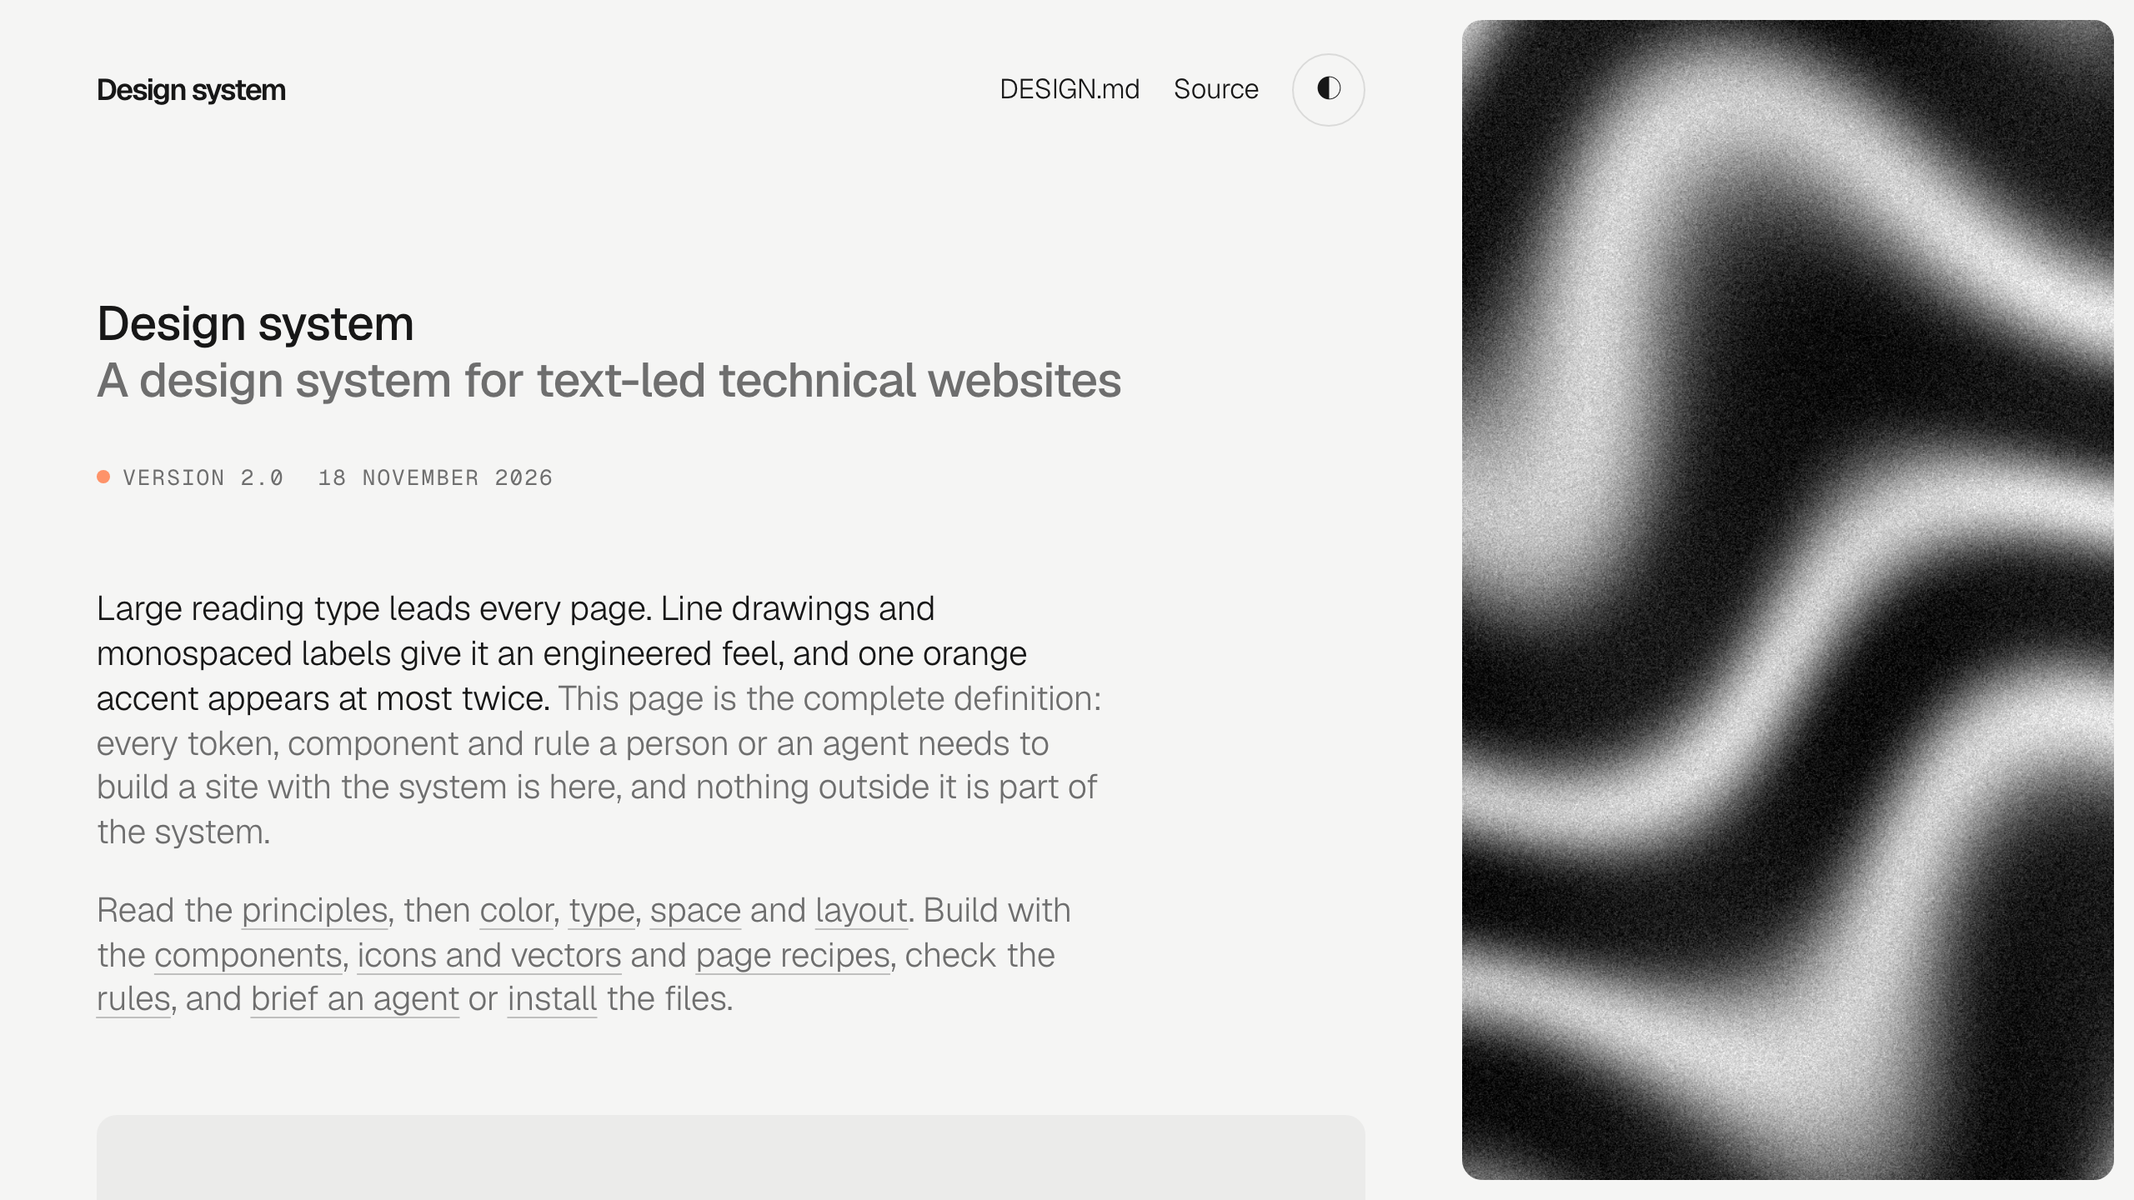
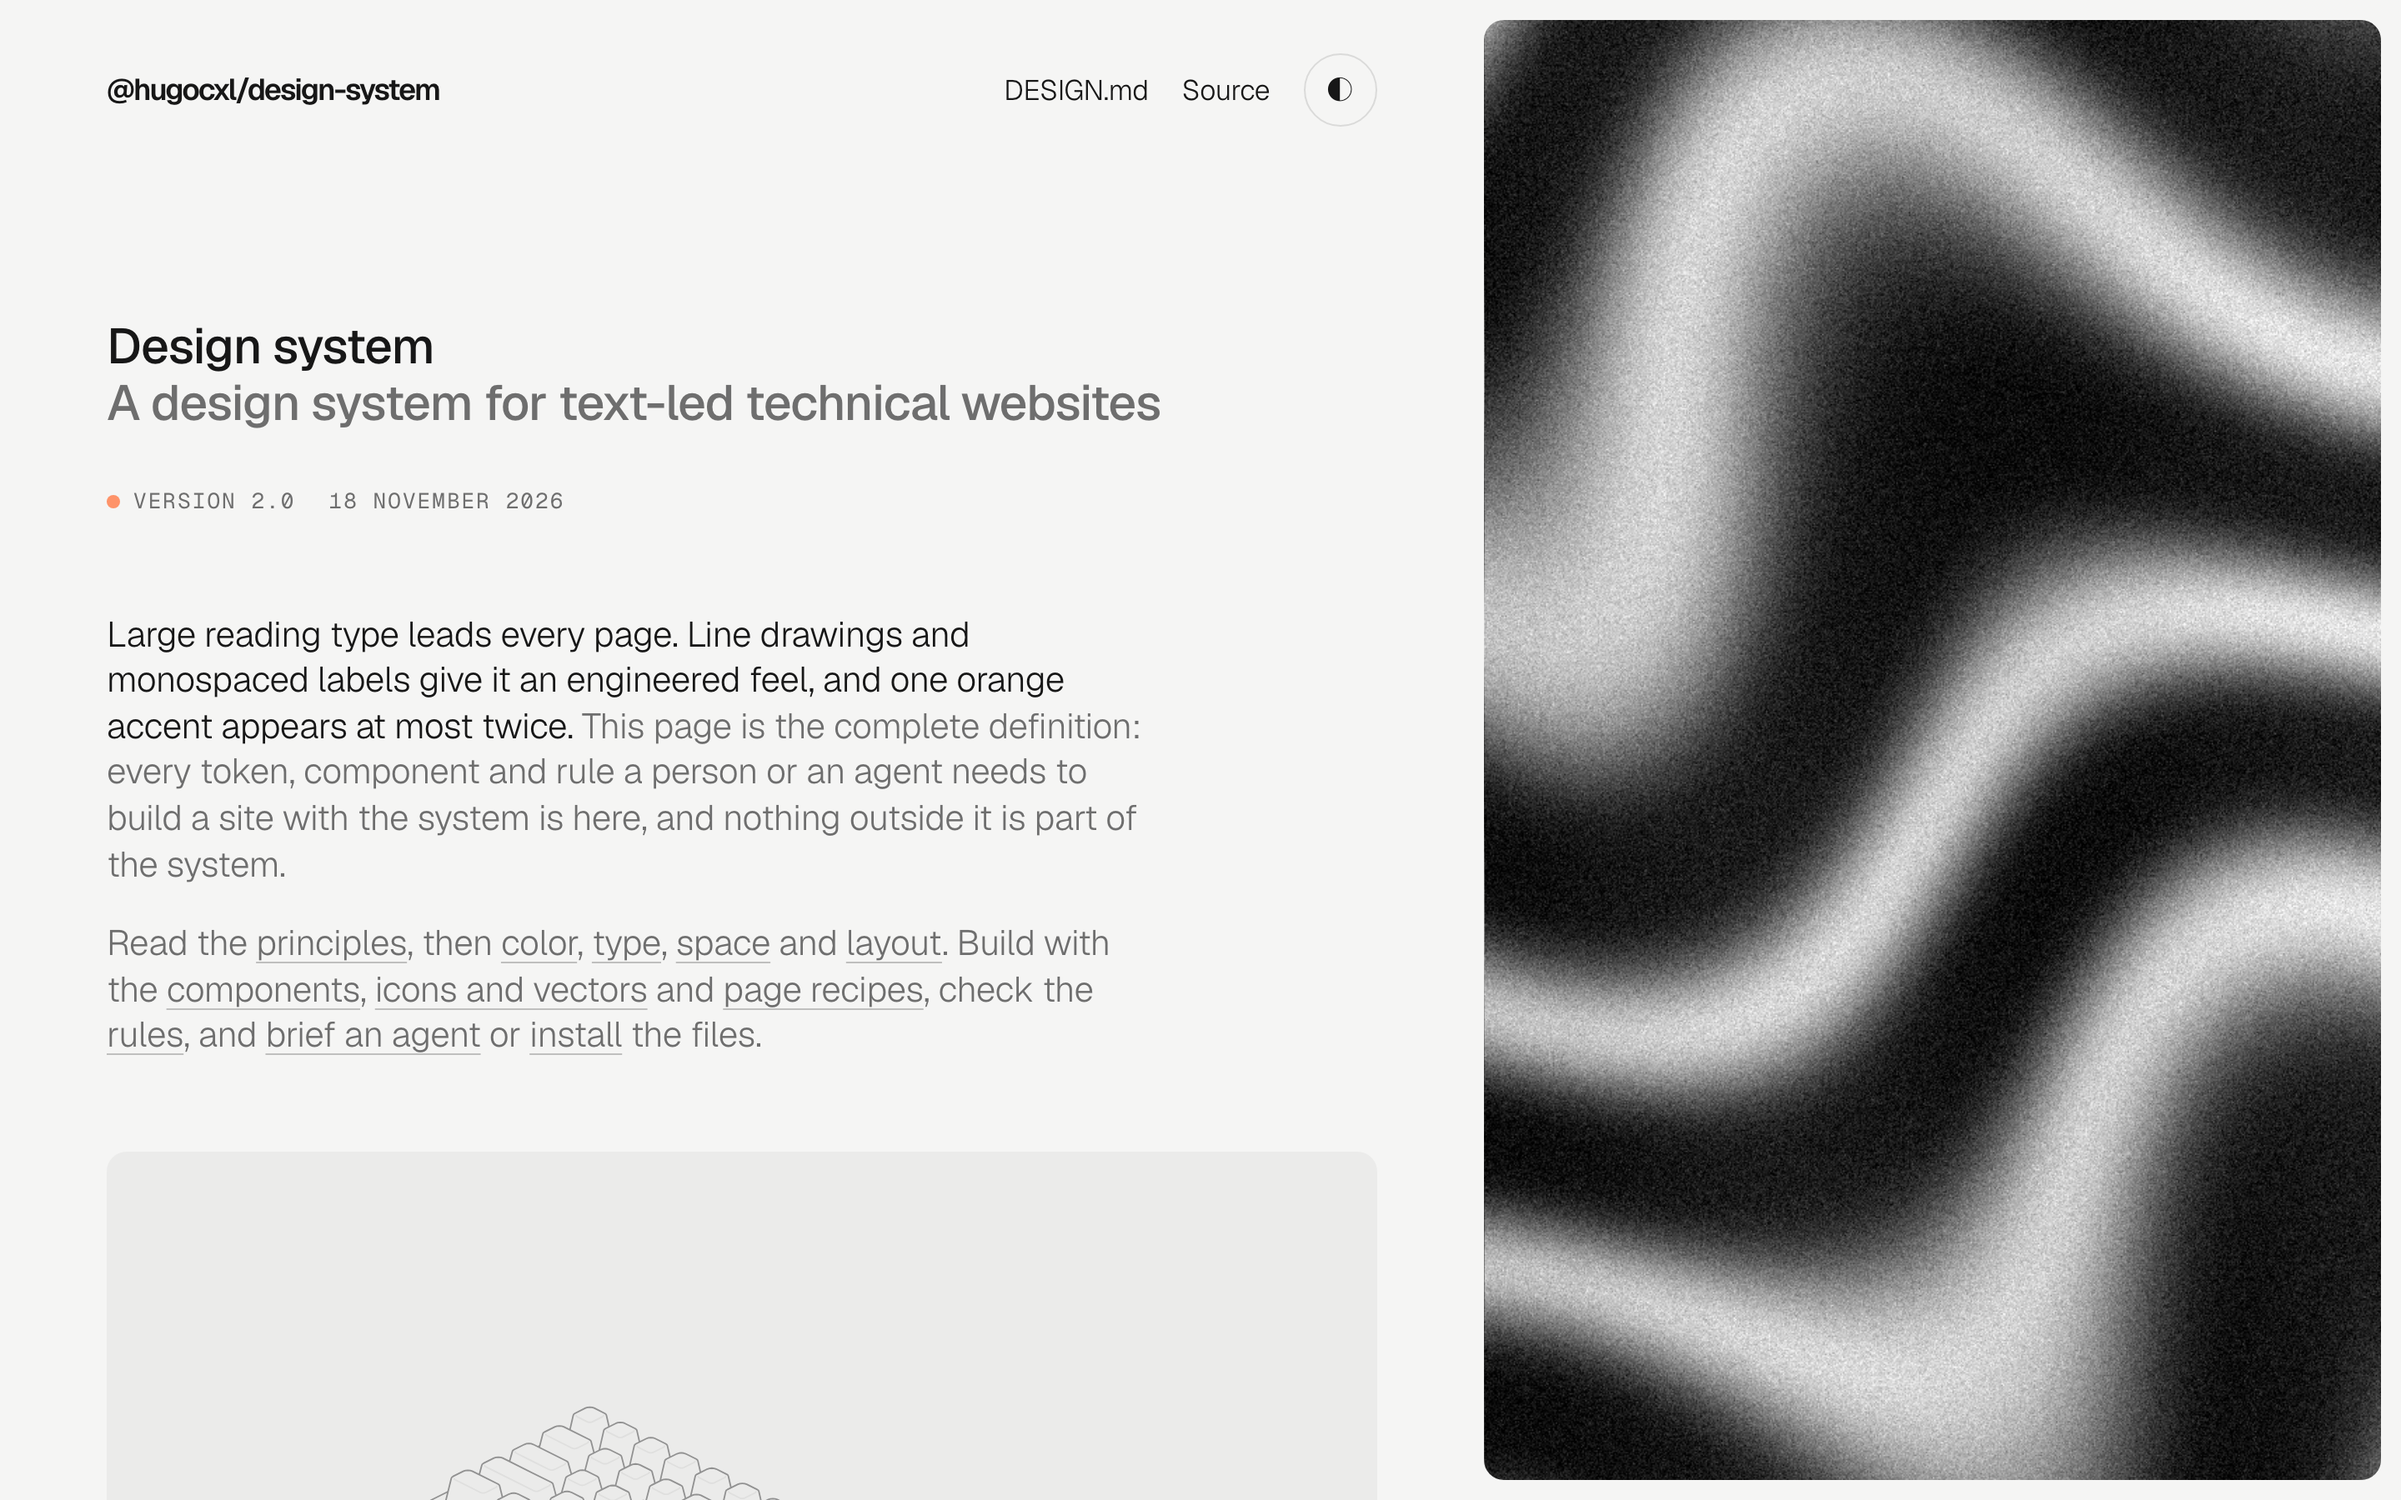
Use the package name as the site wordmark

diff --git a/system/p9.css b/system/p9.css
@@ -149,7 +149,7 @@
 .p9-masthead a:hover { text-decoration: underline }
 .p9-wordmark { margin-right: auto; font-size: 1.125rem; font-weight: 600; letter-spacing: -.055em }
 .p9-masthead .p9-wordmark:hover { text-decoration: none }
-@media (max-width: 480px) { .p9-masthead { gap: var(--p9-space-3) } }
+@media (max-width: 480px) { .p9-masthead { flex-wrap: wrap; gap: 0 var(--p9-space-3) } .p9-wordmark { flex-basis: 100% } }
 .p9-theme { flex: none; width: var(--p9-target); height: var(--p9-target); border: 1px solid var(--p9-rule); border-radius: 50%; color: inherit; background: transparent; font: inherit; cursor: pointer }
 
 .p9-footer { display: flex; align-items: center; gap: var(--p9-space-5); margin-top: var(--p9-space-9); padding-bottom: var(--p9-space-7); font: 400 var(--p9-size-mono)/1.4 var(--p9-mono); letter-spacing: 0 }

diff --git a/index.html b/index.html
@@ -11,7 +11,7 @@
 </head>
 <body class="p9" data-layout="field" id="top">
   <header class="p9-masthead">
-    <a class="p9-wordmark" href="./">Design system</a>
+    <a class="p9-wordmark" href="./">@hugocxl/design-system</a>
     <a href="DESIGN.md" download>DESIGN.md</a>
     <a href="https://github.com/hugocxl/design-system">Source</a>
     <button class="p9-theme" type="button" data-p9-theme aria-label="Switch theme">◐</button>
